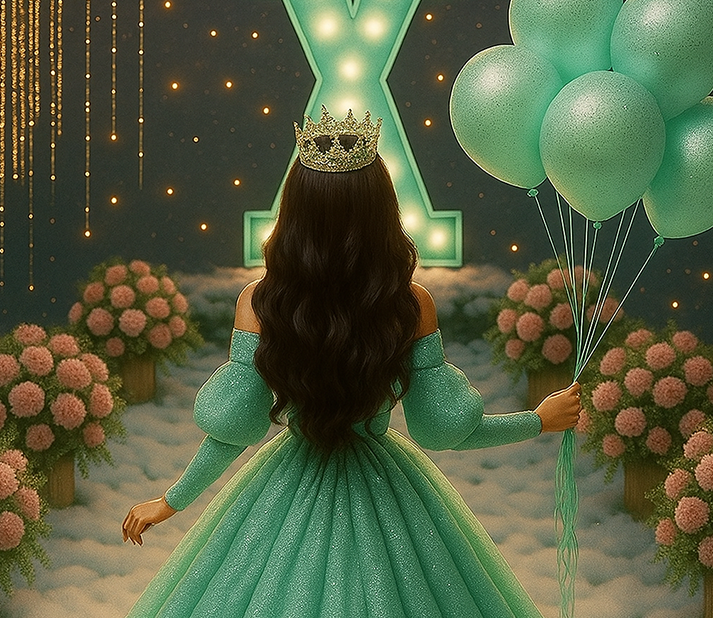
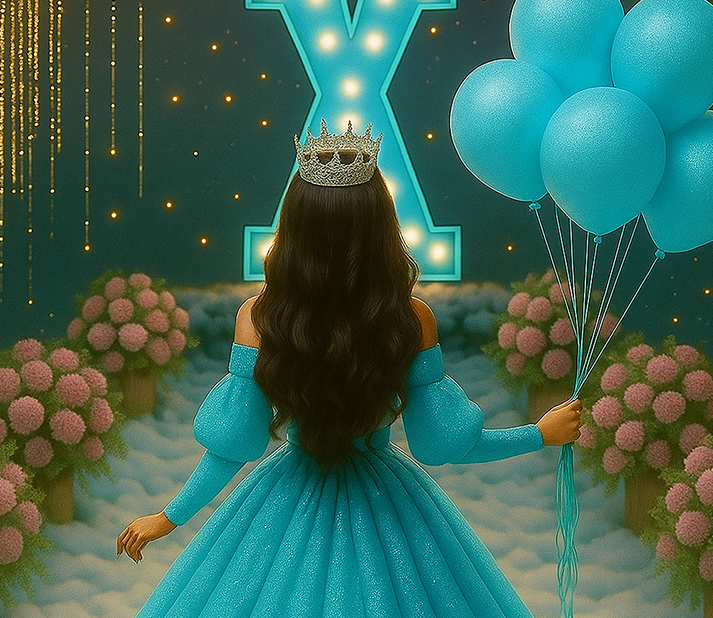
g
g

diff --git a/index.html b/index.html
@@ -91,7 +91,7 @@
 
 
         
-                    <h3 class="font_times">En tus quince primaveras, se despliegan sueños como mariposas al vuelo, un mundo de posibilidades te espera y en tu corazón se tejen hilos de anhelo.</h3><br>
+                    <h3 class="font_times">Se despliegan sueños como mariposas al vuelo, un mundo de posibilidades te espera y en tu corazón se tejen hilos de anhelo.</h3><br>
 
                     <h3 class="font_times">Imagina un futuro lleno de risas y aventuras donde cada paso te acerque a tu destino, donde el amor y la felicidad sean tus guías seguras y la pasión encienda siempre tu camino.</h3><br>
 
@@ -153,7 +153,8 @@
                             <div class="bg_white bg_opacity_70 p_30">
                                 <h3 class="text_center">Recepción</h3>
                                 <img src="lugar2.jpg" class="wimg_responsive rounded mb_10">
-    
+
+                                <h3 class="text_center">Scala</h3>
                                 <div class="text_left">
                                     <strong>Cuándo:</strong>
                                     <span>22 de Noviembre del 2025 8.30 pm.</span><br>
@@ -259,8 +260,8 @@
 
 
 
-        <div class="bgr_ini">
-            <img class="bgr_fondo" src="fondo03.jpg" alt="Fondo">
+        <div class="bgr_ini bg_menta" >
+
             <img class="bgr_image" src="img1.jpg" alt="Contenido">
             <img class="bgr_grafic" src="grafica2.svg" alt="Contenido Frente">
             <div class="texto_position1 text-center color_white">
@@ -288,7 +289,7 @@
             <div class="m_0a d_block max_wpx_500 color_black box_shadow_dark">
                 <div class="p_50 bg_menta color_black">
                     <h3 class="font_paris fspx_30 m_0">Color Reservado para la Quinceañera</h3>
-                    <h3 class="font_times fspx_20 m_0">El color menta estará reservado exclusivamente para Ximena.</h3>
+                    <h3 class="font_times fspx_20 m_0">El color azul turquesa estará reservado exclusivamente para Ximena.</h3>
                 </div>
             </div>
         </center>
@@ -474,7 +475,7 @@ document.getElementById("sello").addEventListener("click", function() {
         document.querySelector(".protector").style.display = "none";
         $('body').css('overflow-y', 'auto');
     }, 800);
-    audio.play();
+    //audio.play();
 });
 $(window).scrollTop(0);
 
